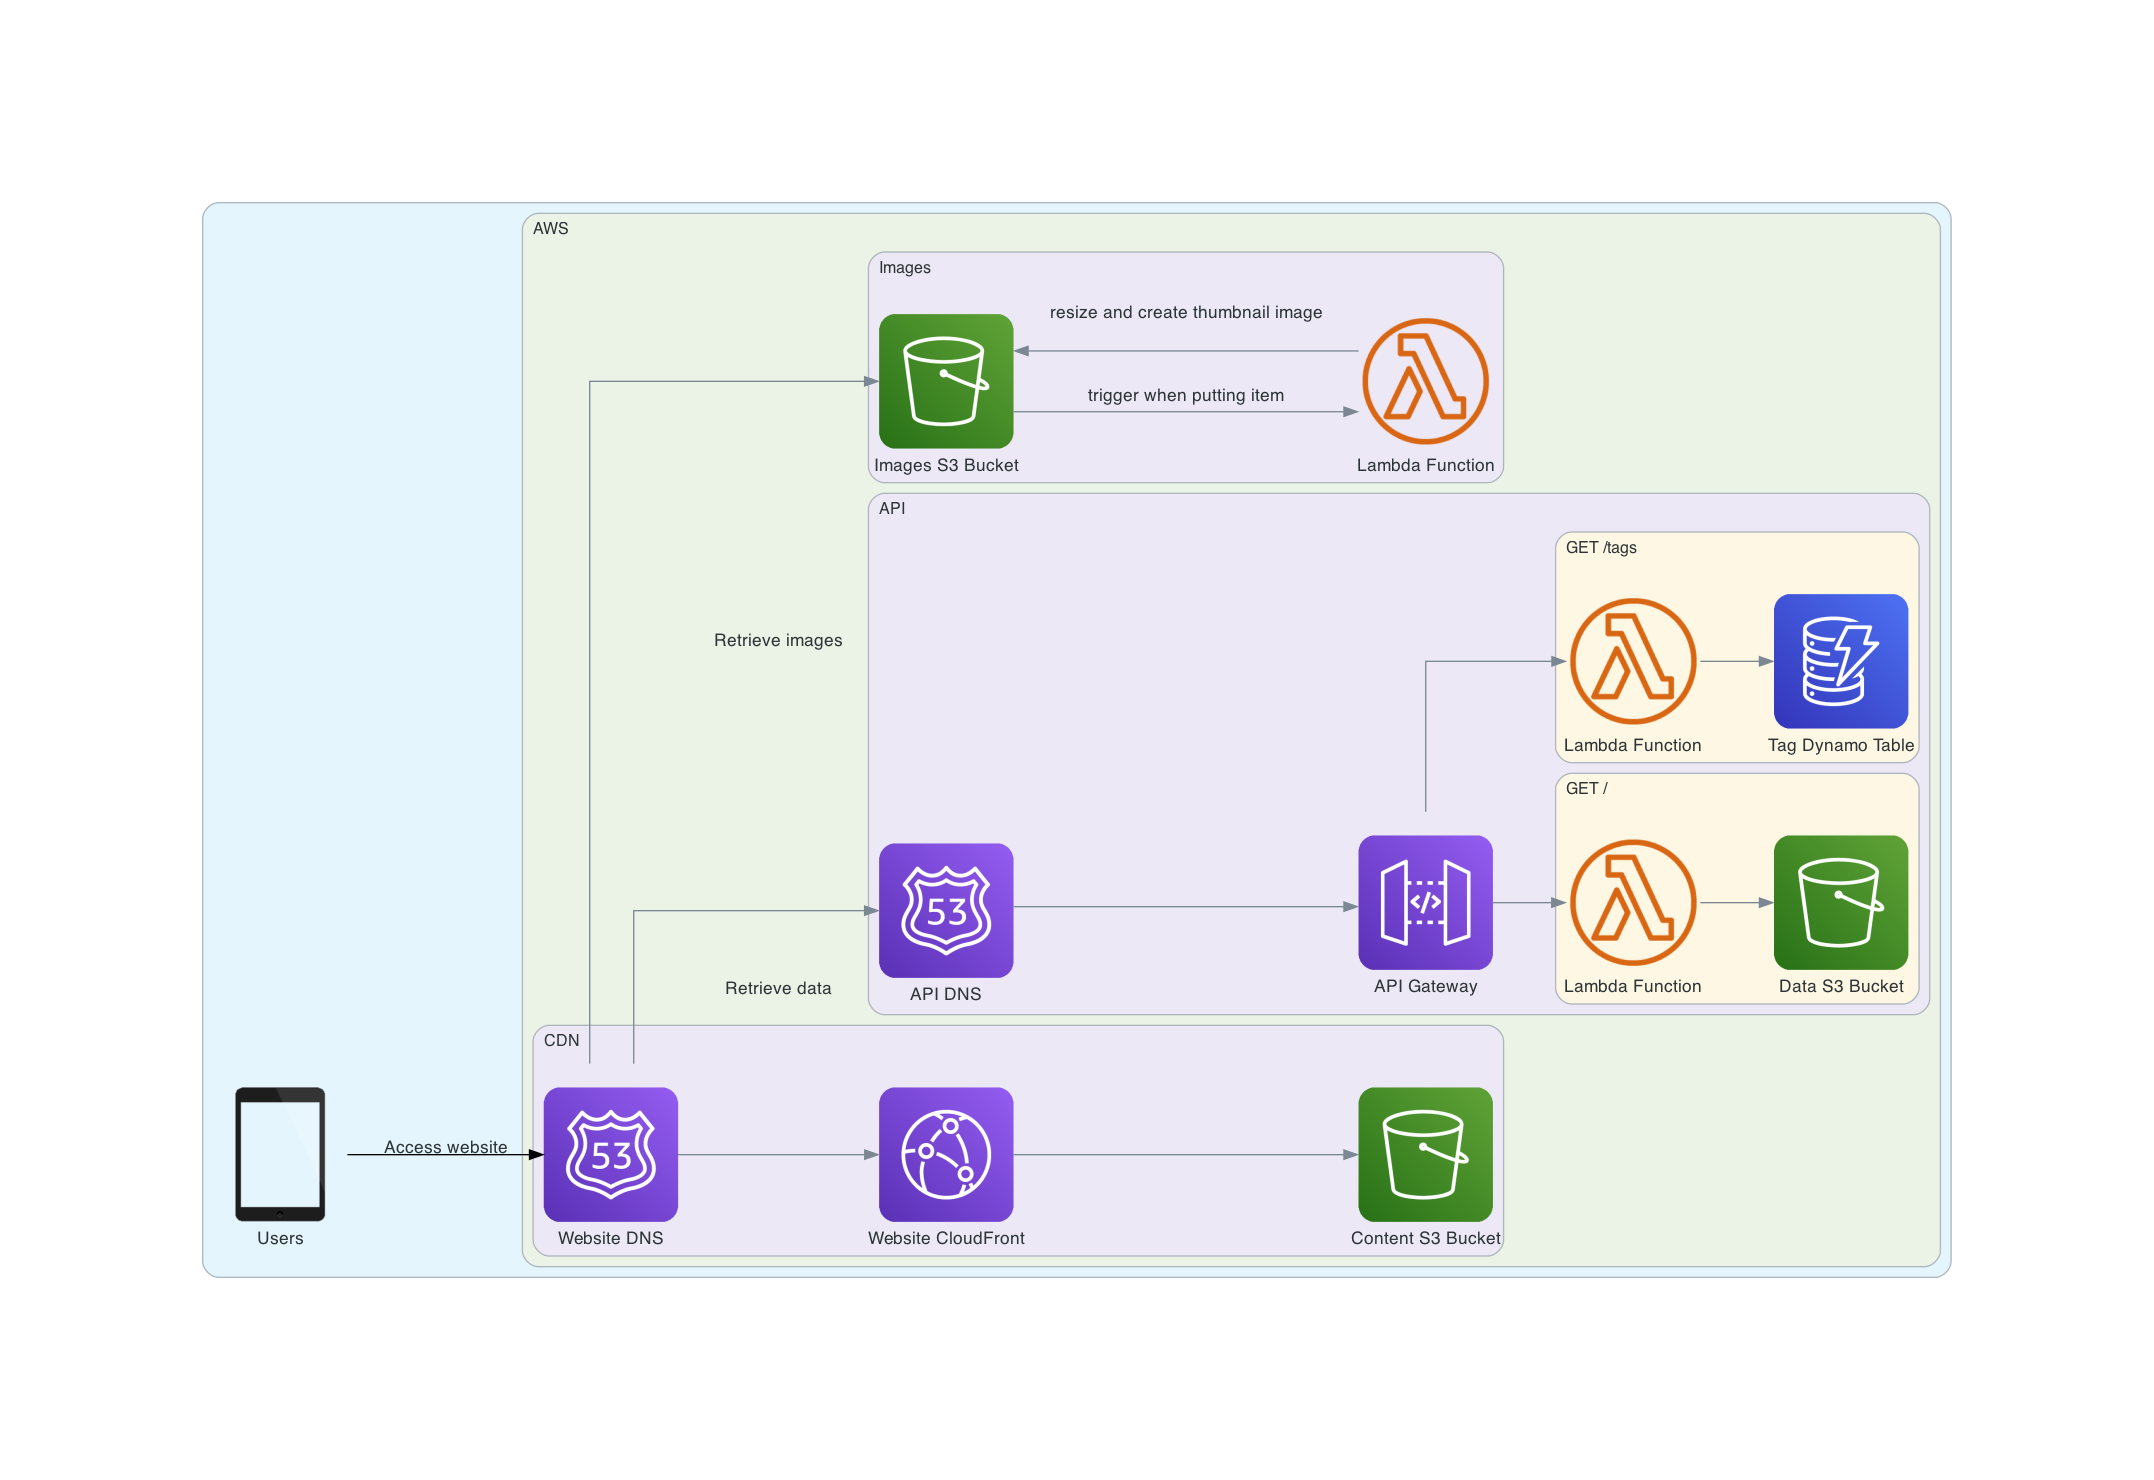
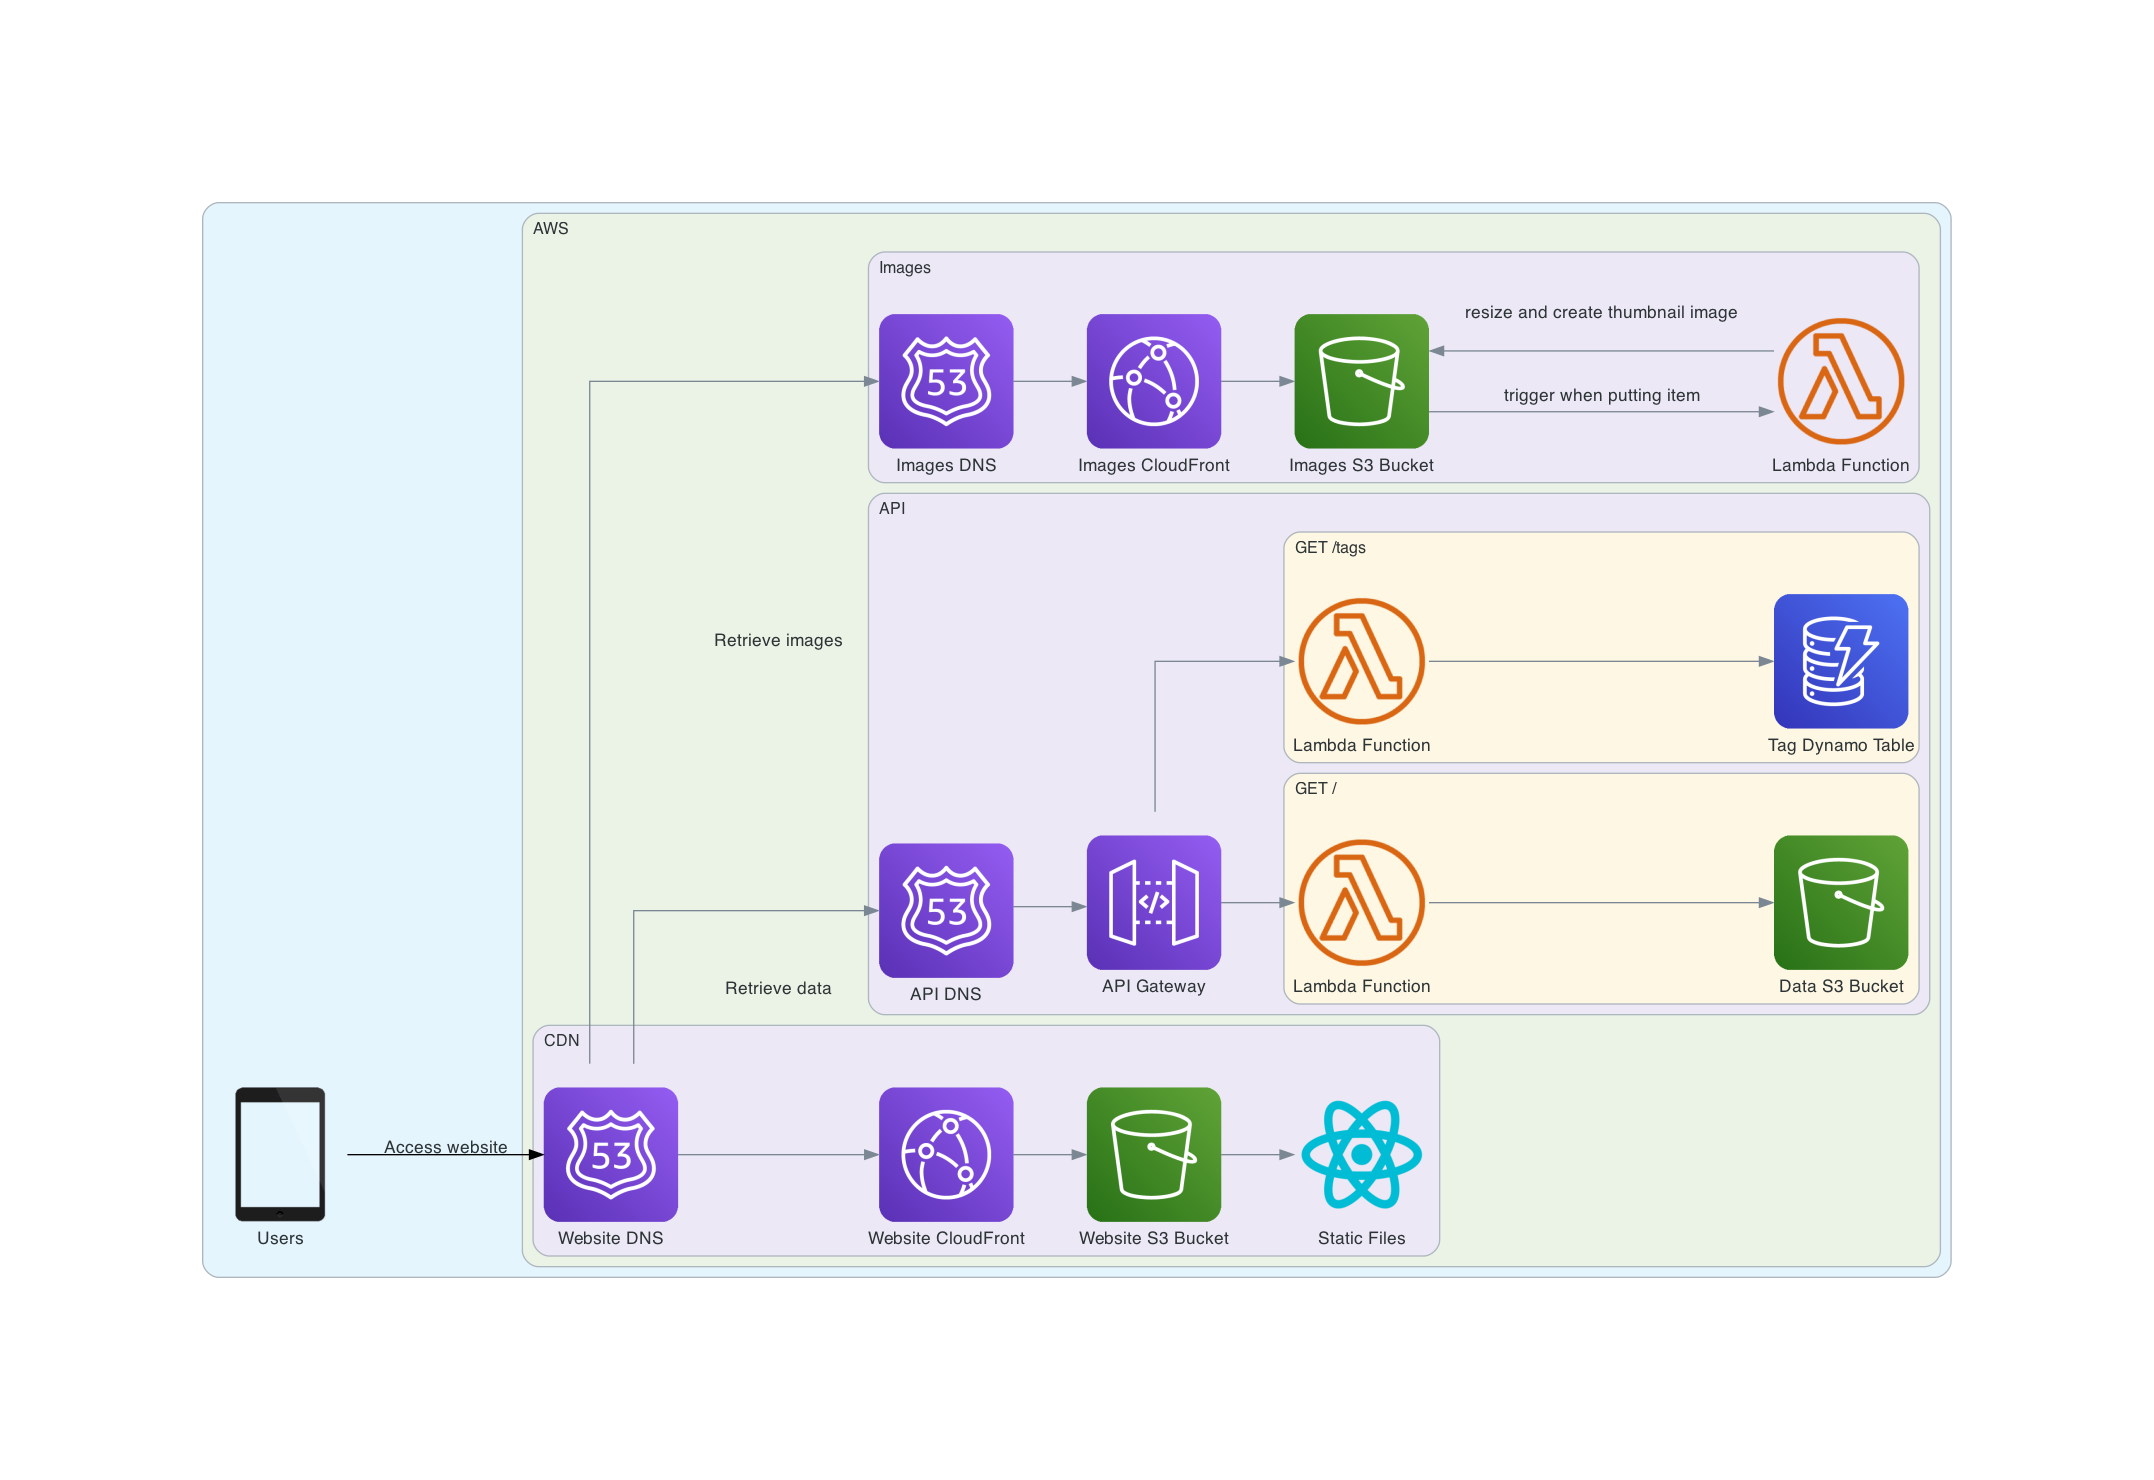
feat: Just update

diff --git a/diagram.py b/diagram.py
@@ -4,6 +4,7 @@ from diagrams.aws.network import APIGateway, Route53, CloudFront
 from diagrams.aws.compute import LambdaFunction
 from diagrams.aws.database import Dynamodb
 from diagrams.generic.device import Tablet, Mobile
+from diagrams.programming.framework import React
 
 
 graph_attr = {
@@ -20,7 +21,8 @@ with Diagram("", graph_attr=graph_attr, show=False, direction='LR'):
           with Cluster('CDN'):
             web_dns = Route53("Website DNS")
             web_cf = CloudFront("Website CloudFront")
-            web_s3 = S3("Content S3 Bucket")
+            web_s3 = S3("Website S3 Bucket")
+            web_react = React("Static Files")
 
           with Cluster('API'):
             api_dns = Route53('API DNS')
@@ -28,6 +30,7 @@ with Diagram("", graph_attr=graph_attr, show=False, direction='LR'):
             with Cluster("GET /"):
               data_lambda = LambdaFunction("Lambda Function")
               data_bucket = S3("Data S3 Bucket")
+              
             with Cluster("GET /tags"):
               tags_lambda = LambdaFunction("Lambda Function")
               tags_table = Dynamodb("Tag Dynamo Table")
@@ -36,10 +39,14 @@ with Diagram("", graph_attr=graph_attr, show=False, direction='LR'):
           with Cluster('Images'):
             images_bucket = S3("Images S3 Bucket")
             images_lambda = LambdaFunction("Lambda Function")
+            images_cf = CloudFront("Images CloudFront")
+            images_dns = Route53("Images DNS")
 
     user_a >> Edge(label="Access website", color="black") >> web_dns
 
-    web_dns >> web_cf >> web_s3
+
+    images_dns >> images_cf >> images_bucket
+    web_dns >> web_cf >> web_s3 >> web_react
 
     api_dns >> api_gateway
 
@@ -47,7 +54,7 @@ with Diagram("", graph_attr=graph_attr, show=False, direction='LR'):
     api_gateway >> tags_lambda >> tags_table
 
     web_dns >> Edge(label="Retrieve data") >> api_dns
-    web_dns >> Edge(label="Retrieve images") >> images_bucket
+    web_dns >> Edge(label="Retrieve images") >> images_dns
 
     images_lambda >> Edge(label="resize and create thumbnail image") >> images_bucket
     images_bucket >> Edge(label="trigger when putting item") >> images_lambda

diff --git a/README.md b/README.md
@@ -1,29 +1,44 @@
-# Personal Website Overview
+# [Personal Website](https://personal.isaacdev.net)
 
 A personal website that demonstrate projects I have worked on.
 
-### Infrastructure and Backend
+Using a low-cost and serverless solution in AWS to deliver the website.
 
-[personal-website-pulumi-stack](https://github.com/IsaacOrzDev/personal-website-pulumi-stack)
+![screen](./image.png)
 
-[personal-website-aws-cdk (Deprecated)](https://github.com/IsaacOrzDev/personal-website-aws-cdk)
+## Architecture
 
 ![AWS](./diagrams_image.png)
 
-### Featuring
+## Repositories
 
-- Pulumi as tool of Infrastructure as Code
-- AWS CDK as tool of Infrastructure as Code (Deprecated)
-- Integrate with different AWS Serverless services
+[Pulumi Repo](https://github.com/IsaacOrzDev/personal-website-pulumi-stack)
 
-## Frontend
+![TypeScript](https://img.shields.io/badge/typescript-%23007ACC.svg?style=for-the-badge&logo=typescript&logoColor=white)
+![Python](https://img.shields.io/badge/python-3670A0?style=for-the-badge&logo=python&logoColor=ffdd54)
+![AWS](https://img.shields.io/badge/AWS-%23FF9900.svg?style=for-the-badge&logo=amazon-aws&logoColor=white)
 
-[personal-website-frontend-2020](https://github.com/IsaacOrzDev/personal-website-frontend-2020)
+Steup the infrastructure includes lambda functions and cloudfront by using Pulumi.
 
-### Featuring
+[CDK Repo (Deprecated)](https://github.com/IsaacOrzDev/personal-website-aws-cdk)
 
-- Typescript
-- React.js
-- scss for styling
-- redux for state management
-- react-spring for animations
+![TypeScript](https://img.shields.io/badge/typescript-%23007ACC.svg?style=for-the-badge&logo=typescript&logoColor=white)
+![AWS](https://img.shields.io/badge/AWS-%23FF9900.svg?style=for-the-badge&logo=amazon-aws&logoColor=white)
+
+I currently use Pulumi instead of CDK to setup the infrastructure to avoid using CloudFormation.
+
+[Frontend Repo](https://github.com/IsaacOrzDev/personal-website-frontend)
+
+![TypeScript](https://img.shields.io/badge/typescript-%23007ACC.svg?style=for-the-badge&logo=typescript&logoColor=white)
+![React](https://img.shields.io/badge/react-%2320232a.svg?style=for-the-badge&logo=react&logoColor=%2361DAFB)
+![Vite](https://img.shields.io/badge/vite-%23646CFF.svg?style=for-the-badge&logo=vite&logoColor=white)
+
+A frontend project do not use UI libraries but only use React and Vite.
+
+[Frontend Extensions Repo](https://github.com/IsaacOrzDev/personal-website-extenions)
+
+![Next JS](https://img.shields.io/badge/Next-black?style=for-the-badge&logo=next.js&logoColor=white)
+![Vercel](https://img.shields.io/badge/vercel-%23000000.svg?style=for-the-badge&logo=vercel&logoColor=white)
+![TypeScript](https://img.shields.io/badge/typescript-%23007ACC.svg?style=for-the-badge&logo=typescript&logoColor=white)
+
+Some extensions for the website, such as gallery page.
